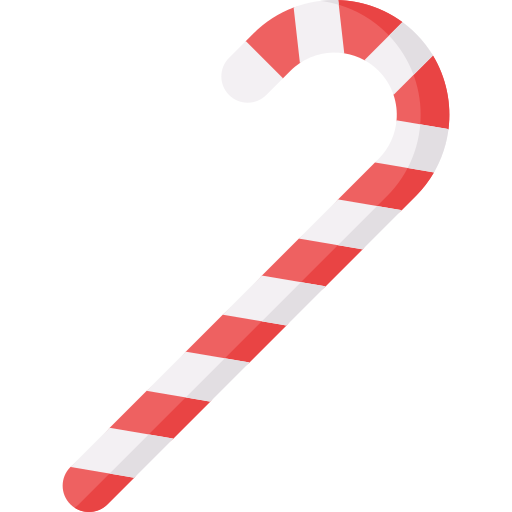
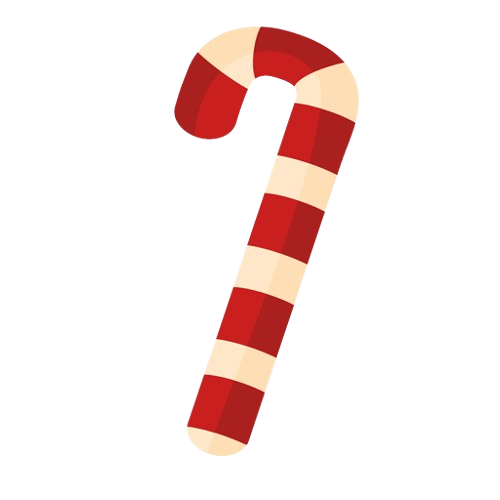
Update numbers and candy cane images and CSS

Changed region(s): [[0.12, 0.0, 0.9, 1.0]]

diff --git a/public/overlay/subgoal.html b/public/overlay/subgoal.html
@@ -4,57 +4,54 @@
   <meta charset="UTF-8">
   <title>Sub Goal Overlay</title>
   <style>
-    html, body {
-      margin: 0;
-      padding: 0;
-      background: transparent;
-      overflow: hidden;
-    }
-    .wrapper {
-      display: flex;
-      align-items: center;
-      justify-content: center;
-      height: 100vh;
-    }
-    .number-group {
-      display: flex;
-    }
+  html, body {
+    margin: 0;
+    padding: 0;
+    background: transparent;
+    overflow: hidden;
+  }
+  .wrapper {
+    display: flex;
+    align-items: center;
+    justify-content: center;
+    height: 100vh;
+  }
+  .number-group {
+    display: flex;
+  }
 
-    .digit {
-      display: inline-block;
-      background-image: url('/img/numbers.png');
-      background-repeat: no-repeat;
-      background-size: 629px 391px; /* full image size */
-      width: 120px;
-      height: 190px;
-      margin: 0 -4px;
-      vertical-align: bottom;
-    }
+  .digit {
+  display: inline-block;
+  background-image: url('/img/numbers.png');
+  background-repeat: no-repeat;
+  background-size: 677px 116px; /* full image size */
+  width: 64px;   /* slightly smaller than 67.7 to avoid edges */
+  height: 110px; /* slightly smaller than 116 */
+  margin: 0 -2px;
+  vertical-align: bottom;
+}
 
-    /* small upward shift for bottom-row digits */
-    .digit-bottom {
-      transform: translateY(-6px);
-    }
+.slash {
+  height: 110px;
+  margin: 0 30px;
+}
 
-    .slash {
-      height: 210px;   /* slightly larger candy cane */
-      margin: 0 40px;
-    }
+/* single row, y = 0; adjust order if your sheet is 1–0 vs 0–9 */
 
-    /* Row 0 (top), y = 0 */
-    .digit-1 { background-position: calc(-125.8px * 0) 0; }
-    .digit-2 { background-position: calc(-125.8px * 1) 0; }
-    .digit-3 { background-position: calc(-125.8px * 2) 0; }
-    .digit-4 { background-position: calc(-125.8px * 3) 0; }
-    .digit-5 { background-position: calc(-125.8px * 4) 0; }
+/* if the row is 0 1 2 3 4 5 6 7 8 9 from left to right: */
+.digit-0 { background-position: calc(-67.7px * 0) 0; }
+.digit-1 { background-position: calc(-67.7px * 1) 0; }
+.digit-2 { background-position: calc(-67.7px * 2) 0; }
+.digit-3 { background-position: calc(-67.7px * 3) 0; }
+.digit-4 { background-position: calc(-67.7px * 4) 0; }
+.digit-5 { background-position: calc(-67.7px * 5) 0; }
+.digit-6 { background-position: calc(-67.7px * 6) 0; }
+.digit-7 { background-position: calc(-67.7px * 7) 0; }
+.digit-8 { background-position: calc(-67.7px * 8) 0; }
+.digit-9 { background-position: calc(-67.7px * 9) 0; }
+   /* keep bottom row baseline */
+</style>
 
-    /* Row 1 (bottom), y = -195.5px (original), shifted with .digit-bottom */
-    .digit-6 { background-position: calc(-125.8px * 0) -195.5px; }
-    .digit-7 { background-position: calc(-125.8px * 1) -195.5px; }
-    .digit-8 { background-position: calc(-125.8px * 2) -195.5px; }
-    .digit-9 { background-position: calc(-125.8px * 3) -195.5px; }
-    .digit-0 { background-position: calc(-125.8px * 4) -195.5px; }
-  </style>
 </head>
 <body>
   <div class="wrapper">
@@ -64,7 +61,19 @@
   </div>
 
   <script>
-  const bottomRow = new Set(['6', '7', '8', '9', '0']);
+  // map each digit to its vertical-offset class
+  const voClass = {
+    '1': 'vo-1',
+    '2': 'vo-2',
+    '3': 'vo-3',
+    '4': 'vo-4',
+    '5': 'vo-5',
+    '6': 'vo-6',
+    '7': 'vo-7',
+    '8': 'vo-8',
+    '9': 'vo-9',
+    '0': 'vo-0'
+  };
 
   async function fetchSubgoal() {
     const params = new URLSearchParams(window.location.search);
@@ -86,17 +95,14 @@
     for (const ch of value) {
       const span = document.createElement('span');
       span.classList.add('digit', 'digit-' + ch);
-      if (bottomRow.has(ch)) {
-        span.classList.add('digit-bottom');
-      }
+      const extra = voClass[ch];
+      if (extra) span.classList.add(extra);
       container.appendChild(span);
     }
   }
 
-  // initial load + refresh every 5s
   fetchSubgoal();
   setInterval(fetchSubgoal, 5000);
 </script>
-
 </body>
 </html>
